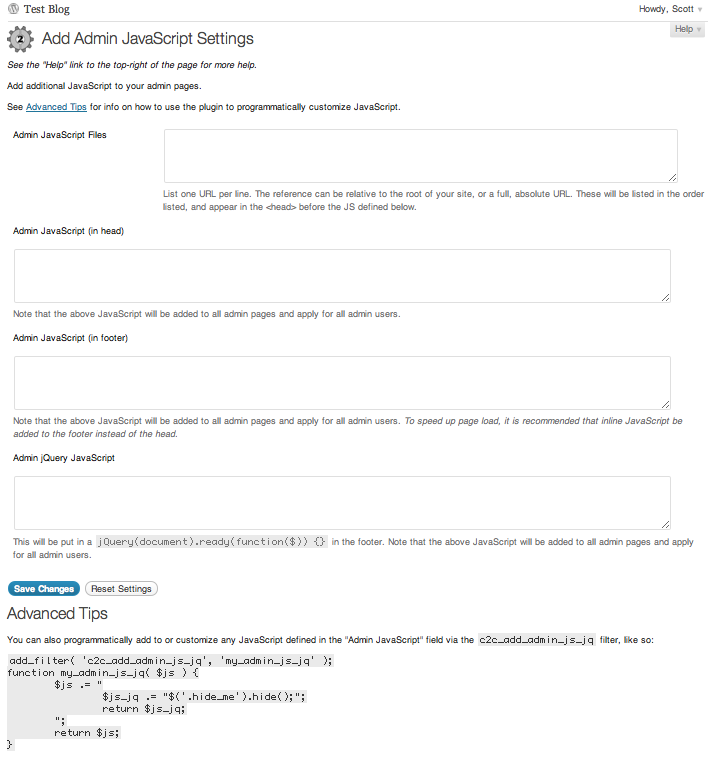
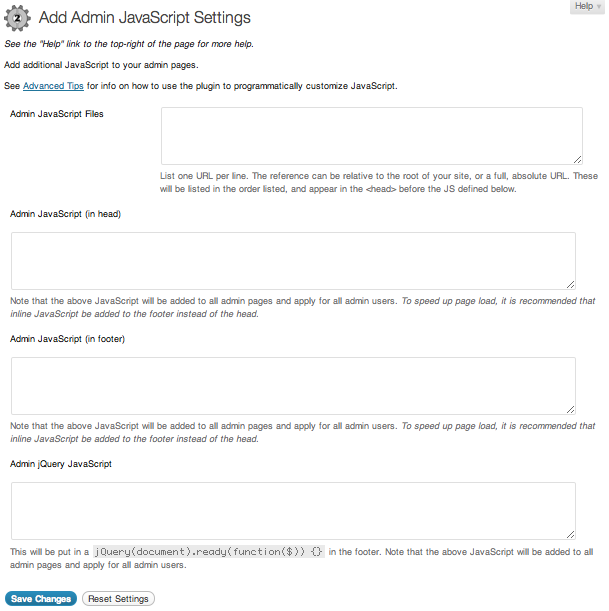
Release v1.1.1:
* Fix typo in code example in Advanced Tips
* Add addition help text for js_head to indicate use of js_foot is preferred
* Update .pot
* Update screenshot

diff --git a/add-admin-javascript.php b/add-admin-javascript.php
@@ -2,11 +2,11 @@
 /**
  * @package Add_Admin_JavaScript
  * @author Scott Reilly
- * @version 1.1
+ * @version 1.1.1
  */
 /*
 Plugin Name: Add Admin JavaScript
-Version: 1.1
+Version: 1.1.1
 Plugin URI: http://coffee2code.com/wp-plugins/add-admin-javascript/
 Author: Scott Reilly
 Author URI: http://coffee2code.com
@@ -64,7 +64,7 @@ class c2c_AddAdminJavaScript extends C2C_Plugin_029 {
 		if ( ! is_null( self::$instance ) )
 			return;
 
-		parent::__construct( '1.1', 'add-admin-javascript', 'c2c', __FILE__, array() );
+		parent::__construct( '1.1.1', 'add-admin-javascript', 'c2c', __FILE__, array() );
 		register_activation_hook( __FILE__, array( __CLASS__, 'activation' ) );
 		self::$instance = $this;
 	}
@@ -110,7 +110,7 @@ class c2c_AddAdminJavaScript extends C2C_Plugin_029 {
 			),
 			'js_head' => array( 'input' => 'textarea', 'default' => '', 'datatype' => 'text',
 					'label' => __( 'Admin JavaScript (in head)', $this->textdomain ),
-					'help' => __( 'Note that the above JavaScript will be added to all admin pages and apply for all admin users.', $this->textdomain ),
+					'help' => __( 'Note that the above JavaScript will be added to all admin pages and apply for all admin users. <em>To speed up page load, it is recommended that inline JavaScript be added to the footer instead of the head.</em>', $this->textdomain ),
 					'input_attributes' => 'rows="8" cols="40"'
 			),
 			'js_foot' => array( 'input' => 'textarea', 'default' => '', 'datatype' => 'text',
@@ -161,10 +161,7 @@ class c2c_AddAdminJavaScript extends C2C_Plugin_029 {
 		echo <<<HTML
 		<pre><code>add_filter( 'c2c_add_admin_js_jq', 'my_admin_js_jq' );
 function my_admin_js_jq( \$js ) {
-	\$js .= "
-		\$js_jq .= "$('.hide_me').hide();";
-		return \$js_jq;
-	";
+	\$js .= "\$('.hide_me').hide();";
 	return \$js;
 }</code></pre>
 
